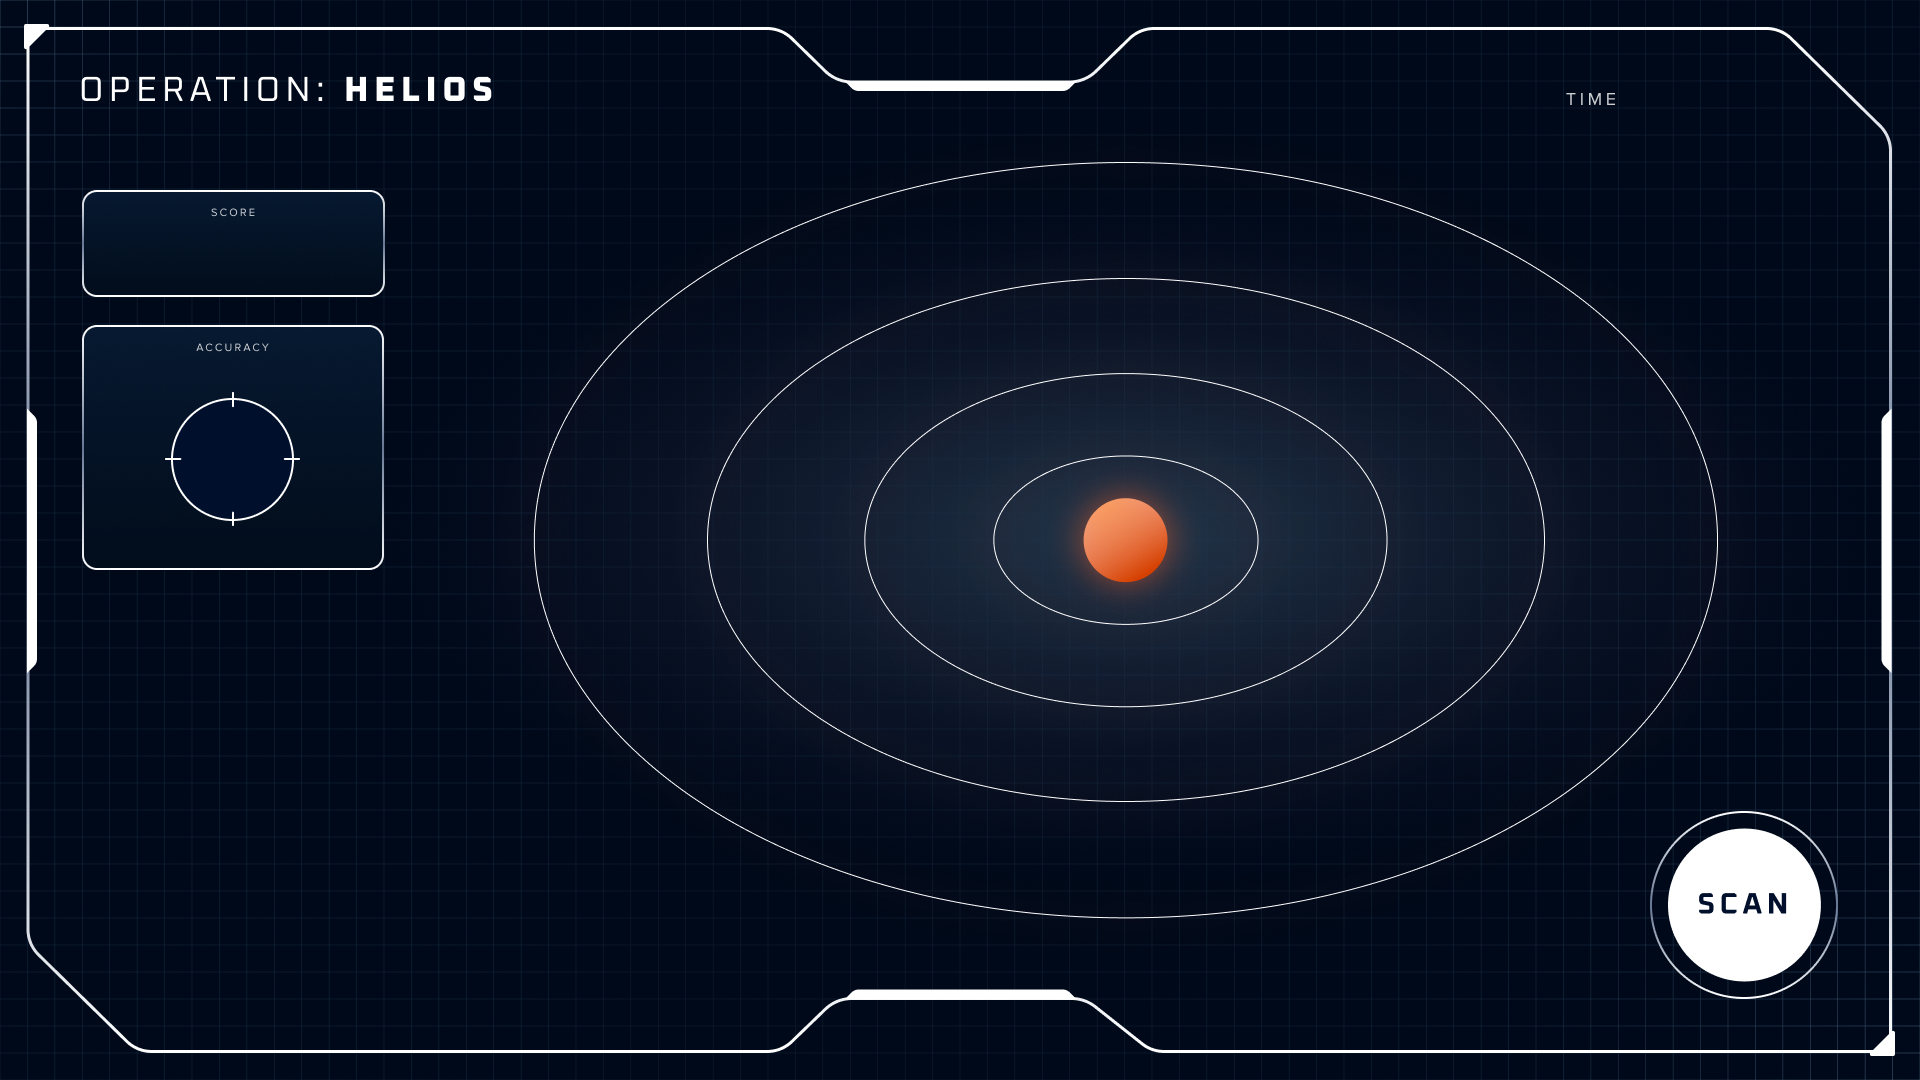
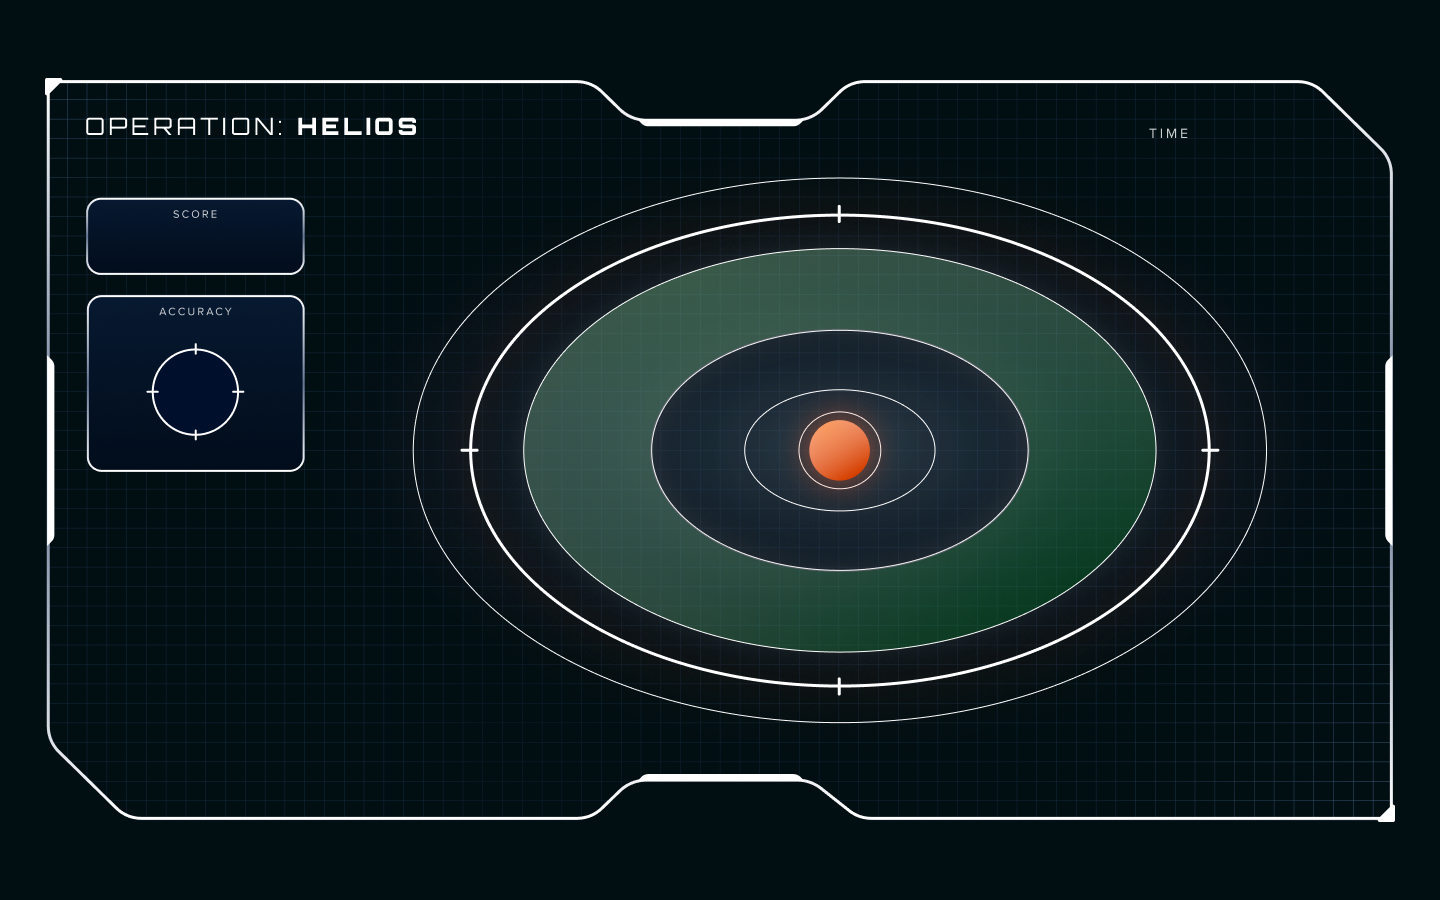
fixed the resizing issue

diff --git a/src.js b/src.js
@@ -1,14 +1,19 @@
 const c = document.getElementById("gameCanvas");
 const ctx = c.getContext("2d");
+
+ctx.canvas.width = window.innerWidth;
+ctx.canvas.height = window.innerHeight;
+
 var stopped = false;
-var score = 0;
+var accuracy = 0;
 var time = 60;
 var frame = 0;
-const CENTER_X = 592;
-const CENTER_Y = 329;
+const CENTER_X = 590;
+const CENTER_Y = 350;
 
-const scoreText = document.getElementById('scoreText');
-const timeText = document.getElementById('timeText');
+var score = 0;
+var timer = '01:00';
+var accuracy = '0%';
 
 let setter = 1;
 
@@ -26,6 +31,8 @@ const drawOvalShape = (ctx, center_x, center_y, radiusX, radiusY, color) =>{
     ctx.ellipse(center_x, center_y, radiusX, radiusY,  90 * Math.PI/180, 0, 2 * Math.PI);
     ctx.stroke();
     ctx.closePath();
+
+    console.log(radiusX, radiusY);
 }
 
 const drawRectShape = (ctx, x, y, width, height, color) => {
@@ -35,6 +42,13 @@ const drawRectShape = (ctx, x, y, width, height, color) => {
     ctx.rect(x, y, width, height);
     ctx.stroke();
     ctx.closePath()
+}
+
+// draws text
+const DrawText = (ctx, x, y, font, type, size, style, text) => {
+    ctx.font = `${type} ${size}px ${font}`;
+    ctx.fillStyle = style;
+    ctx.fillText(text, x, y, 140);
 }
 
 // updates the line movement
@@ -58,20 +72,19 @@ const Update = () => {
     }
 
     frame++;
-    console.log(frame);
     if(frame == 60){
         frame = 0;
         time--;
     }
 
     if(time == 60){
-        timeText.innerText = '01:00';
-    } else if(time < 60 && time > 10){
-        timeText.innerText = `00:${time}`;
+        timer = '01:00'
+    } else if(time < 60 && time >= 10){
+        timer = `00:${time}`;
     } else if(time < 10 && time > 0){
-        timeText.innerText =`00:0${time}`;
+        timer =`00:0${time}`;
     } else if (time <= 0){
-        timeText.innerText = `00:00`;
+        timer = `00:00`;
     }
 
     if(time <= 0){
@@ -80,51 +93,61 @@ const Update = () => {
 }
 
 const Draw = () => {
-    ctx.clearRect(0,0,1400,800);
+    ctx.clearRect(0,0,1920,1080);
 
-    drawOvalShape(ctx, CENTER_X, CENTER_Y, player.radiusX, player.radiusY, "white");
-    drawRectShape(ctx, CENTER_X - player.radiusY - 7, CENTER_Y, 15, 1);
-    drawRectShape(ctx, CENTER_X + player.radiusY - 7, CENTER_Y, 15, 1);
+    const bg = new Image();
+    bg.src = "assets/bg.png";
+    ctx.drawImage(bg,0,0,1900,1080);
+    if(score == 0){
+        DrawText(ctx, 210, 305, 'Oxanium', 'normal', 40, 'white', '0000');
+    } else {
+        DrawText(ctx, 210, 305, 'Oxanium', 'normal', 40, 'white', score);
+    }
+    DrawText(ctx, 1625, 95, 'Oxanium', 'bold', 40, 'white', timer);
 
-    drawRectShape(ctx, CENTER_X, CENTER_Y - player.radiusX - 7, 1, 15);
-    drawRectShape(ctx, CENTER_X, CENTER_Y + player.radiusX - 7 , 1, 15);
+    // drawOvalShape(ctx, CENTER_X, CENTER_Y, player.radiusX, player.radiusY, "white");
+    // drawRectShape(ctx, CENTER_X - player.radiusY - 7, CENTER_Y, 15, 1);
+    // drawRectShape(ctx, CENTER_X + player.radiusY - 7, CENTER_Y, 15, 1);
+
+    // drawRectShape(ctx, CENTER_X, CENTER_Y - player.radiusX - 7, 1, 15);
+    // drawRectShape(ctx, CENTER_X, CENTER_Y + player.radiusX - 7 , 1, 15);
  }
 
 
-const CheckScore = () => {
-if(player.radiusY < 100 && player.radiusY >= 0){
-    console.log("HOT ZONE");
-    score += 1000;
-}
-else if(player.radiusY > 100 && player.radiusY < 175){
-    console.log("NICE ZONE");
-    score += 1500;
-}
-else{
-    console.log("COLD ZONE");
-    score += 1000;
-}
-}
+// const CheckScore = () => {
+// if(player.radiusY < 100 && player.radiusY >= 0){
+//     console.log("HOT ZONE");
+//     score += 1000;
+// }
+// else if(player.radiusY > 100 && player.radiusY < 175){
+//     console.log("NICE ZONE");
+//     score += 1500;
+// }
+// else{
+//     console.log("COLD ZONE");
+//     score += 1000;
+// }
+// }
 
-window.addEventListener("keypress", (e) => {
-    if(!stopped){
-        CheckScore()
-        stopped = true;
+// window.addEventListener("keypress", (e) => {
+//     if(!stopped){
+//         CheckScore()
+//         stopped = true;
 
-        if(setter < 10){
-            player.speed += 1.5;
-            setter++;
-        }
-        else{
-            console.log('Move on to next screen.');
-        }
-    } else {
-        stopped = false;
-        player.radiusX = 1;
-        player.radiusY = 1;
-        player.direction = 1;
-    }
-});
+//         if(setter < 10){
+//             player.speed += 1.5;
+//             setter++;
+//         }
+//         else{
+//             console.log('Move on to next screen.');
+//         }
+//     } else {
+//         stopped = false;
+//         player.radiusX = 1;
+//         player.radiusY = 1;
+//         player.direction = 1;
+//     }
+// });
 
 // Draw at 60fps
 setInterval(() => {

diff --git a/simplepage.html b/simplepage.html
@@ -9,37 +9,23 @@
      @font-face { font-family: Oxanium; font-weight: bold; src: url('assets/fonts/Oxanium-SemiBold.ttf');}
      @font-face { font-family: Orbitron; src: url('assets/fonts/Orbitron-Medium.ttf');}
 
-    body{
-        margin: 0;
-        min-height: 100%;
-    }
-
-    #background-img{
-        min-width: 1024px;
-
-        width: 100%;
-        height: 100%;
-
-        position: absolute;
-        top: 0;
-        left: 0;
+    body, html{
+       margin:0;
     }
     
-    @media screen and (max-width: 1024px) {
+    /* @media screen and (max-width: 1024px) {
         #background-img {
             left: 50%;
             margin-left: -512px;
         }
-    }
+    } */ 
 
-    #gameCanvas{
-        position: absolute;
-        z-index: 5;
-        left: 534px;
-        top: 140px;
-    }
+     #gameCanvas{
+         width: 100%;
+         height: auto;
+    } 
 
-    #scoreText {
+   #scoreText {
         font-family: Oxanium;
         font-size: 40px;
         color: white;
@@ -50,14 +36,14 @@
         position: absolute;
         z-index: 6;
         left: 85px;
-        top: 182px;
+        top: 197px;
         width: 302px;
         height: 73px;
         margin: 0;
         padding-top: 20px;
     }
 
-    #accText {
+    /* #accText {
         font-family: Orbitron;
         font-size: 23px;
         color: white;
@@ -68,7 +54,7 @@
         position: absolute;
         z-index: 6;
         left: 176px;
-        top: 382px;
+        top: 400px;
         width: 121px;
         height: 61px;
         margin: 0;
@@ -86,19 +72,19 @@
         position: absolute;
         z-index: 6;
         left: 1619px;
-        top: 62px;
+        top: 70px;
         width: 164px;
         height: 43px;
         margin: 0;
-    }
+    }  */
 
 </style>
 <body>
-    <img src="assets/bg.png" id="background-img" alt="">
-    <canvas id="gameCanvas" width="1184" height="658"></canvas>
-    <p id="scoreText"> 1500 </p>
-    <p id="accText">82%</p>
-    <p id="timeText">00:30</p>
+    <canvas id="gameCanvas" width="1920" height="1080">
+        <p id="scoreText"> 0 </p>
+        <p id="accText">0%</p>
+        <p id="timeText">00:30</p>
+    </canvas>
     <script src="src.js"></script>
 </body>
 </html>
